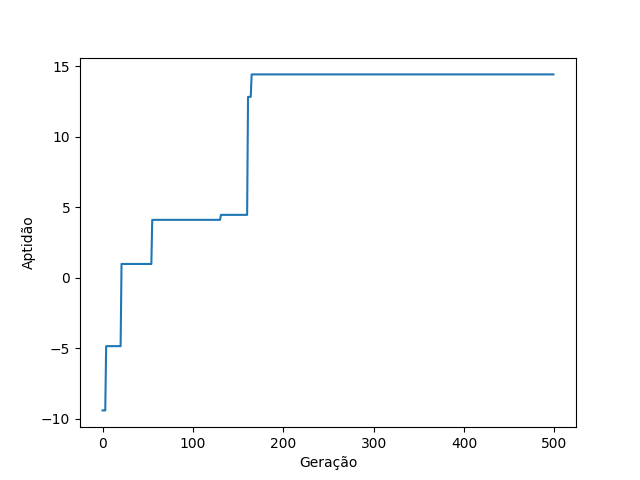
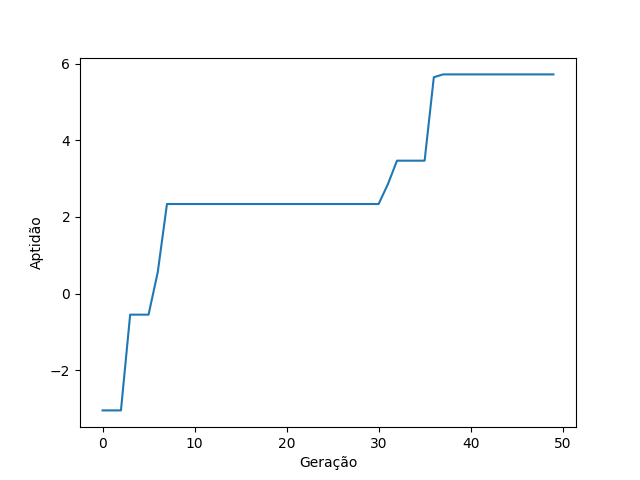
versão final

diff --git a/main.py b/main.py
@@ -9,13 +9,14 @@ import matplotlib.pyplot as plt
 
 
 ###################################################### VARIÁVEIS GLOBAIS
-NUM_GERACOES = 500
+NUM_GERACOES = 50
 NUM_ENTES = 500
-MAX_NUM_GENES = 25
-MIN_NUM_GENES = 5
-NUM_PASSOS = 500
+MAX_NUM_GENES = 35
+MIN_NUM_GENES = 15
+NUM_PASSOS = 300
 NUM_CAMPEOES = 10
-PROB_MUTACAO = 40
+NUM_FILHOS = 10
+PROB_MUTACAO = 60
 
 populacao = []
 serieAptxGer = []
@@ -66,15 +67,15 @@ def faz_cruzamento(ente1, ente2):
 
 def selecao(populacao):
 	somaTotal = 0
-	delta = abs(populacao[-1].fit)
+	delta = abs(populacao[NUM_CAMPEOES-1].fit)
 	
-	for ente in populacao:
+	for ente in populacao[:NUM_CAMPEOES]:
 		somaTotal += ente.fit + delta
 
 	candidato = random.uniform(0, somaTotal)
 
 	somaTotal = 0
-	for ente in populacao:
+	for ente in populacao[:NUM_CAMPEOES]:
 		somaTotal += ente.fit + delta
 		if somaTotal >= candidato:
 			return ente
@@ -157,7 +158,7 @@ cria_populacao(NUM_ENTES)
 
 superCampeao = None
 
-#calculo a aptidão de cada ente
+#calcula a aptidão de cada ente
 for g in range(NUM_GERACOES):
 
 	i = 0
@@ -181,7 +182,7 @@ for g in range(NUM_GERACOES):
 		#imprime os resultados parciais
 		os.system('clear')
 		print("%11s %11s %20s %16s" % ('| GERAÇÃO |', 'INDIVÍDUO |', 'APTIDÃO INDIVIDUAL |', 'MELHOR APTIDÃO |'))
-		print("| %3d/%3d | %4d/%5d | %18f | %14f |" % ((g+1), NUM_GERACOES, i, NUM_ENTES, totalReward, max_aptidao))
+		print("| %3d/%3d | %4d/%4d | %18f | %14f |" % ((g+1), NUM_GERACOES, i, NUM_ENTES, totalReward, max_aptidao))
 
 
 	#escolho os N mais aptos
@@ -201,7 +202,7 @@ for g in range(NUM_GERACOES):
 	nova_geracao = []
 
 	#seleciona os candidatos a transmitir seus genes
-	for _ in range(NUM_CAMPEOES):
+	for _ in range(NUM_FILHOS):
 		candidato1 = selecao(populacao)
 		candidato2 = selecao(populacao)
 
@@ -227,15 +228,16 @@ plt.savefig('aptxger')
 #exibe o comportamento do ganhador
 populacao.sort(key=lambda e: e.fit, reverse=True)
 key = None 
+env.reset()
+ente = superCampeao
+passo = 0
+key = input("\n\nPREPARADO PARA VER O GANHADOR? [S/N] \n\n USE CTRL+C PARA CANCELAR")
 while key != 'N':		
-	input("\n\nPREPARADO PARA VER O GANHADOR? [S/N]")
-	env.reset()
-	ente = superCampeao
-	for passo in range(NUM_PASSOS):
-		gene = ente.dna.genes[passo % len(ente.dna.genes)]
-		env.render()
-		action = converte_gene_in_action(gene)	
-		observation, reward, done, info = env.step(action)
+	gene = ente.dna.genes[passo % len(ente.dna.genes)]
+	env.render()
+	action = converte_gene_in_action(gene)	
+	observation, reward, done, info = env.step(action)
+	passo += 1
 
 env.close()
 
